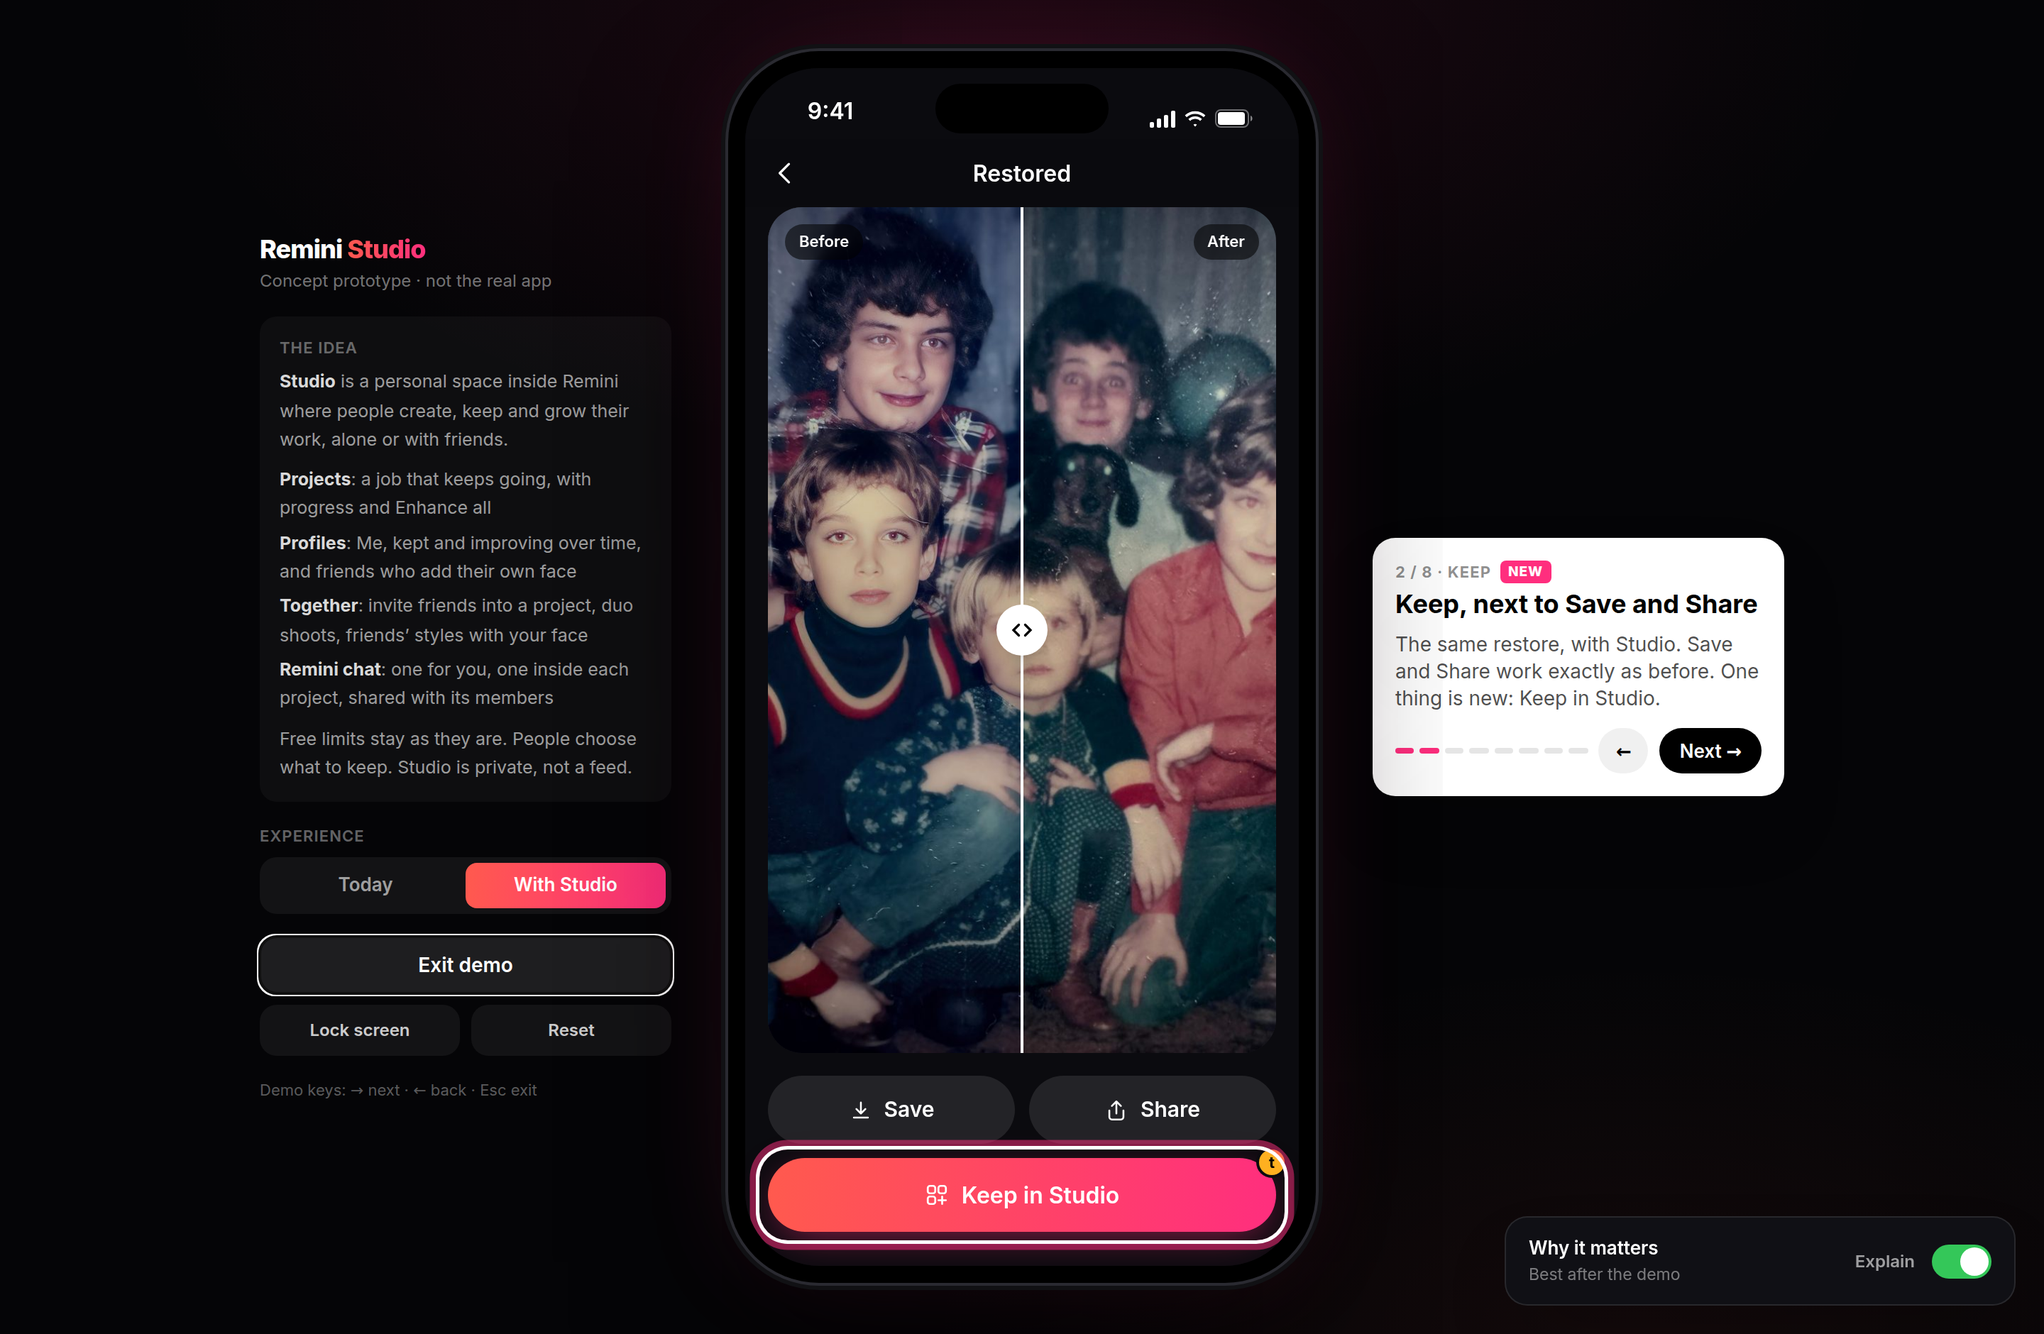
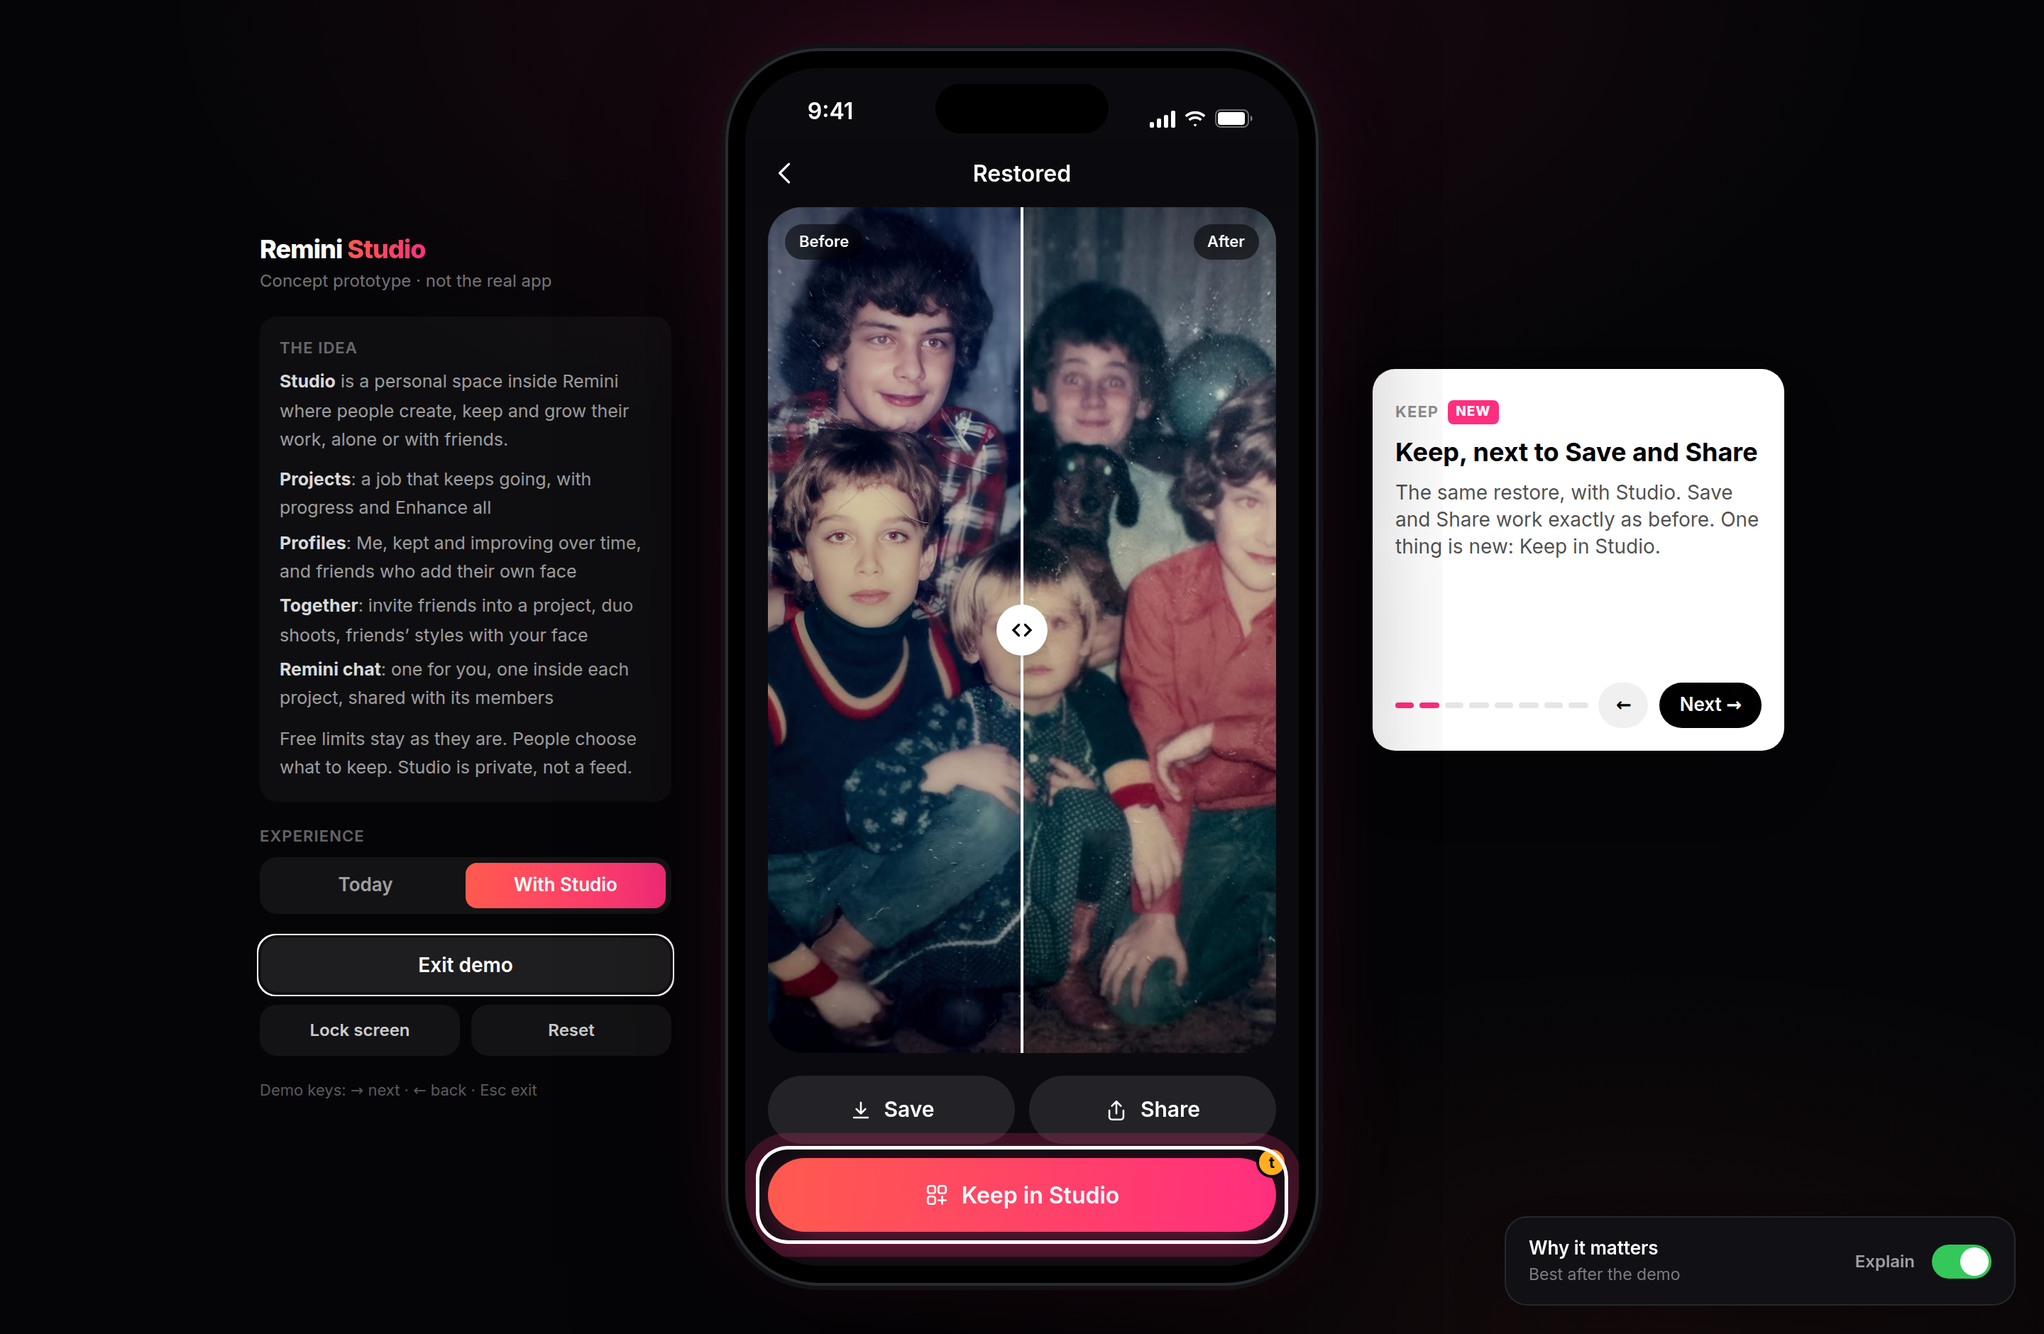
Remove chapter cards; pillar titles in the demo caption; steady caption position
- Reverted the chapter cards and the transition changes that came with them
- Projects, Profiles and Together show a large coloured section title in the caption
- The caption is pinned from the top with a fixed header and text height, so Next never moves

Claude-Session: https://claude.ai/code/session_016rhZVuvannS9NXSxxpYwsv

diff --git a/src/shell/Shell.tsx b/src/shell/Shell.tsx
@@ -206,34 +206,29 @@ export function EventLog() {
   );
 }
 
-/** Next: first dismisses a chapter card, then moves to the next beat. */
-function useAdvance() {
-  const { demo, setDemo, chapterCard, setChapterCard } = useStore();
-  return () => {
-    if (demo === null) return;
-    if (chapterCard !== null) return setChapterCard(null);
-    setDemo(demo >= BEATS.length - 1 ? null : demo + 1);
-  };
-}
-
 export function DemoCaption({ compact = false }: { compact?: boolean }) {
-  const { demo, setDemo, chapterCard } = useStore();
-  const advance = useAdvance();
+  const { demo, setDemo } = useStore();
   if (demo === null) return null;
   const b = BEATS[demo];
-  const last = demo === BEATS.length - 1 && chapterCard === null;
-  const onCard = chapterCard !== null;
-  const ch = CHAPTERS[b.step - 1];
+  const last = demo === BEATS.length - 1;
   return (
-    <motion.div key={`${demo}-${onCard}`} initial={{ opacity: 0, y: 8 }} animate={{ opacity: 1, y: 0 }} className={`rounded-2xl bg-white text-black shadow-2xl ${compact ? 'p-3' : 'p-4'}`}>
-      <div className="flex items-center justify-between text-[11px] font-bold uppercase tracking-wider text-black/45">
-        <span className="flex items-center gap-1.5">
-          {b.step} / {TOTAL_STEPS} · {CHAPTERS[b.step - 1].name}
-          {CHAPTERS[b.step - 1].isNew && <span className="rounded bg-[#FF2E7E] px-1.5 py-[1px] text-[9.5px] font-extrabold tracking-wider text-white">NEW</span>}
-        </span>
-      </div>
-      <div data-ctl={compact ? undefined : 'demo-title'} className={`mt-1 font-bold leading-tight ${compact ? 'text-[15px]' : 'text-[18px]'}`}>{onCard ? ch.name : b.title}</div>
-      {!compact && <p className="mt-1.5 text-[14px] leading-snug text-black/70">{onCard ? ch.tagline : b.caption}</p>}
+    <motion.div key={demo} initial={{ opacity: 0.6 }} animate={{ opacity: 1 }} transition={{ duration: 0.2 }} className={`rounded-2xl bg-white text-black shadow-2xl ${compact ? 'p-3' : 'p-4'}`}>
+      {CHAPTERS[b.step - 1].card ? (
+        // Projects, Profiles and Together: the three pillars get a big, coloured section title.
+        <div className="flex h-[28px] items-center gap-2">
+          <span className="bg-gradient-to-r from-[#FF5A4E] to-[#FF2E7E] bg-clip-text text-[26px] font-extrabold leading-none tracking-tight text-transparent">{CHAPTERS[b.step - 1].name}</span>
+          <span className="rounded bg-[#FF2E7E] px-1.5 py-[1px] text-[9.5px] font-extrabold tracking-wider text-white">NEW</span>
+        </div>
+      ) : (
+        <div className="flex h-[28px] items-center justify-between text-[11px] font-bold uppercase tracking-wider text-black/45">
+          <span className="flex items-center gap-1.5">
+            {CHAPTERS[b.step - 1].name}
+            {CHAPTERS[b.step - 1].isNew && <span className="rounded bg-[#FF2E7E] px-1.5 py-[1px] text-[9.5px] font-extrabold tracking-wider text-white">NEW</span>}
+          </span>
+        </div>
+      )}
+      <div data-ctl={compact ? undefined : 'demo-title'} className={`mt-1 font-bold leading-tight ${compact ? 'text-[15px]' : 'text-[18px]'}`}>{b.title}</div>
+      {!compact && <p className="mt-1.5 min-h-[132px] text-[14px] leading-snug text-black/70">{b.caption}</p>}
       <div className="mt-3 flex items-center gap-2">
         <div className="flex flex-1 gap-1">
           {Array.from({ length: TOTAL_STEPS }, (_, i) => (
@@ -243,8 +238,8 @@ export function DemoCaption({ compact = false }: { compact?: boolean }) {
         <button disabled={demo === 0} onClick={() => setDemo(demo - 1)} className="h-8 rounded-full bg-black/[0.06] px-3 text-[13px] font-semibold disabled:opacity-30">
           ←
         </button>
-        <button data-ctl={compact ? undefined : 'demo-next'} onClick={advance} className="h-8 rounded-full bg-black px-3.5 text-[13px] font-semibold text-white">
-          {last ? 'Finish' : onCard ? 'Start →' : 'Next →'}
+        <button data-ctl={compact ? undefined : 'demo-next'} onClick={() => setDemo(last ? null : demo + 1)} className="h-8 rounded-full bg-black px-3.5 text-[13px] font-semibold text-white">
+          {last ? 'Finish' : 'Next →'}
         </button>
       </div>
     </motion.div>
@@ -253,16 +248,10 @@ export function DemoCaption({ compact = false }: { compact?: boolean }) {
 
 function useDemoDriver() {
   const s = useStore();
-  const { demo, setDemo, setLastDemoDone, setOnboarded, setClosing, setChapterCard } = s;
+  const { demo, setDemo, setLastDemoDone, setOnboarded, setClosing } = s;
   const prev = useRef<number | null>(null);
-  const advance = useAdvance();
 
   useEffect(() => {
-    const was = prev.current;
-    // Moving forward into a new chapter shows its card first; going back never does.
-    if (demo === null) setChapterCard(null);
-    else if ((was === null || (demo > was && BEATS[was]?.step !== BEATS[demo].step)) && CHAPTERS[BEATS[demo].step - 1].card) setChapterCard(BEATS[demo].step);
-    else setChapterCard(null);
     if (demo === null && prev.current === BEATS.length - 1) {
       setLastDemoDone(true);
       afterDemo(s);
@@ -283,13 +272,13 @@ function useDemoDriver() {
     const onKey = (e: KeyboardEvent) => {
       if ((e.target as HTMLElement)?.tagName === 'INPUT') return;
       if (demo === null) return;
-      if (e.key === 'ArrowRight') advance();
+      if (e.key === 'ArrowRight') setDemo(demo >= BEATS.length - 1 ? null : demo + 1);
       else if (e.key === 'ArrowLeft') setDemo(Math.max(0, demo - 1));
       else if (e.key === 'Escape') setDemo(null);
     };
     window.addEventListener('keydown', onKey);
     return () => window.removeEventListener('keydown', onKey);
-  }, [advance, demo, setDemo]);
+  }, [demo, setDemo]);
 }
 
 const fmtM = (x: number) => `${x < 0 ? '−' : ''}$${Math.abs(x) < 1e5 ? `${Math.round(Math.abs(x) / 1e3)}k` : `${Math.abs(x / 1e6).toFixed(1)}M`}`;

diff --git a/src/components/Overlays.tsx b/src/components/Overlays.tsx
@@ -99,25 +99,22 @@ export function Toast() {
   );
 }
 
-/**
- * Pulsing ring around the element marked `data-demo=<target>`, used by the guided demo.
- * It waits for the screen to settle (layers fading in, sheets sliding up) before it
- * appears, then only follows real movement, so it never flies across the phone.
- */
+/** Pulsing ring around the element marked `data-demo=<target>`, used by the guided demo. */
 export function Spotlight({ target, root }: { target: string | null; root: RefObject<HTMLDivElement> }) {
   const [rect, setRect] = useState<{ x: number; y: number; w: number; h: number } | null>(null);
 
   useLayoutEffect(() => {
-    setRect(null);
-    if (!target) return;
+    if (!target) {
+      setRect(null);
+      return;
+    }
     let scrolled = false;
-    let last: { x: number; y: number; w: number; h: number } | null = null;
     const measure = () => {
       const r = root.current;
       // Only elements on the visible screen (hidden stack layers keep theirs mounted).
       const all = Array.from(r?.querySelectorAll<HTMLElement>(`[data-demo="${target}"]`) ?? []).filter((e) => e.getClientRects().length > 0);
       const el = all.length ? all[all.length - 1] : null;
-      if (!r || !el) return;
+      if (!r || !el) return setRect(null);
       if (!scrolled) {
         scrolled = true;
         // Scroll only the app's own scroll containers, never the phone frame.
@@ -131,42 +128,26 @@ export function Spotlight({ target, root }: { target: string | null; root: RefOb
           const d = el.getBoundingClientRect().left - h.getBoundingClientRect().left;
           if (d < 0 || d + el.offsetWidth > h.clientWidth) h.scrollLeft += d - 16;
         }
-        return; // measure after the scroll has applied
       }
       const a = r.getBoundingClientRect();
       const b = el.getBoundingClientRect();
       const scale = a.width / r.offsetWidth || 1;
-      const next = { x: (b.left - a.left) / scale, y: (b.top - a.top) / scale, w: b.width / scale, h: b.height / scale };
-      if (last && Math.abs(last.x - next.x) < 2 && Math.abs(last.y - next.y) < 2 && Math.abs(last.w - next.w) < 2 && Math.abs(last.h - next.h) < 2) return;
-      last = next;
-      setRect(next);
+      setRect({ x: (b.left - a.left) / scale, y: (b.top - a.top) / scale, w: b.width / scale, h: b.height / scale });
     };
-    // Scroll to the element right away, while the screen is still fading in; show the ring once it has settled.
-    const early = [0, 60, 160].map((ms) => window.setTimeout(() => !scrolled && measure(), ms));
-    let t = 0;
-    const start = window.setTimeout(() => {
-      measure();
-      measure();
-      t = window.setInterval(measure, 200);
-    }, 520);
-    return () => {
-      early.forEach(clearTimeout);
-      clearTimeout(start);
-      clearInterval(t);
-    };
+    measure();
+    const t = window.setInterval(measure, 150);
+    return () => clearInterval(t);
   }, [target, root]);
 
   return (
     <AnimatePresence>
-      {rect && target && (
+      {rect && (
         <motion.div
-          key={target}
           className="pointer-events-none absolute z-[80] rounded-[20px]"
-          style={{ left: rect.x - 6, top: rect.y - 6, width: rect.w + 12, height: rect.h + 12 }}
           initial={{ opacity: 0 }}
-          animate={{ opacity: 1 }}
-          exit={{ opacity: 0, transition: { duration: 0 } }}
-          transition={{ duration: 0.25 }}
+          animate={{ opacity: 1, left: rect.x - 6, top: rect.y - 6, width: rect.w + 12, height: rect.h + 12 }}
+          exit={{ opacity: 0 }}
+          transition={{ type: 'spring', stiffness: 300, damping: 30 }}
         >
           <div className="spot-ring absolute inset-0 rounded-[20px]" />
         </motion.div>

diff --git a/src/App.tsx b/src/App.tsx
@@ -4,7 +4,7 @@ import { StatusBar, TopBar } from './components/Chrome';
 import { ChatBubble, TodayHome, TodayScreen, ToolBar } from './screens/Today';
 import { FirstCreationScreen } from './screens/First';
 import { GeneratingOverlay, Spotlight, Toast } from './components/Overlays';
-import { BEATS, CHAPTERS } from './state/demo';
+import { BEATS } from './state/demo';
 import { useStore } from './state/store';
 import type { Route } from './state/types';
 import { AboutScreen, AnimateScreen, GridScreen, PickerScreen, ResultScreen, Splash, TrendScreen } from './screens/Flows';
@@ -136,46 +136,8 @@ function PhoneContent() {
   );
 }
 
-const PILLARS = CHAPTERS.filter((c) => c.card);
-
-/** A full-screen card on the phone when the demo reaches one of Studio's three pillars. It stays until Next, → or a tap. */
-function ChapterCard() {
-  const { chapterCard: show, setChapterCard } = useStore();
-  const ch = show ? CHAPTERS[show - 1] : null;
-  return (
-    <AnimatePresence>
-      {ch && (
-        <motion.button
-          key={show}
-          data-ctl="chapter-card"
-          onClick={() => setChapterCard(null)}
-          className="absolute inset-0 z-[95] flex flex-col justify-end overflow-hidden bg-ink px-7 pb-20 text-left"
-          initial={{ opacity: 0 }}
-          animate={{ opacity: 1 }}
-          exit={{ opacity: 0 }}
-          transition={{ duration: 0.35, ease: 'easeOut' }}
-        >
-          <div className="absolute -right-24 -top-24 h-[380px] w-[380px] rounded-full bg-[radial-gradient(closest-side,rgba(255,46,126,0.45),transparent)]" />
-          <div className="relative w-full">
-            <span className="rounded-md bg-brand px-2 py-[2px] text-[11px] font-extrabold tracking-wider">NEW WITH STUDIO</span>
-            <div className="mt-3 text-[48px] font-extrabold leading-[1.02] tracking-tight">{ch.name}</div>
-            <div className="mt-2 text-[17px] leading-snug text-white/65">{ch.tagline}</div>
-            <div className="mt-8 flex gap-4 text-[13px] font-semibold">
-              {PILLARS.map((p) => (
-                <span key={p.name} className={p.name === ch.name ? 'text-white' : 'text-white/30'}>
-                  {p.name}
-                </span>
-              ))}
-            </div>
-          </div>
-        </motion.button>
-      )}
-    </AnimatePresence>
-  );
-}
-
 export function Phone() {
-  const { demo, chapterCard } = useStore();
+  const { demo } = useStore();
   const root = useRef<HTMLDivElement>(null);
   const [scale, setScale] = useState(1);
 
@@ -186,8 +148,7 @@ export function Phone() {
     return () => window.removeEventListener('resize', fit);
   }, []);
 
-  // No highlight while a chapter card covers the screen.
-  const target = demo !== null && chapterCard === null ? BEATS[demo]?.target ?? null : null;
+  const target = demo !== null ? BEATS[demo]?.target ?? null : null;
 
   return (
     <div className="phone-slot" style={{ ['--s' as string]: scale }}>
@@ -196,7 +157,6 @@ export function Phone() {
           <PhoneContent />
           <div className="dynamic-island" />
           <Spotlight target={target} root={root} />
-          <ChapterCard />
         </div>
       </div>
     </div>

diff --git a/src/state/store.tsx b/src/state/store.tsx
@@ -52,8 +52,6 @@ function useStoreValue() {
   const [chatTyping, setChatTyping] = useState<string | null>(null);
   const [lastDemoDone, setLastDemoDone] = useState(false);
   const [closing, setClosing] = useState(false);
-  /** The chapter card shown when the demo enters a new section; dismissed by Next, → or a tap. */
-  const [chapterCard, setChapterCard] = useState<number | null>(null);
   const [freeUsed, setFreeUsed, freeUsedRef] = useSyncState(0);
   const [isPro, setIsPro, isProRef] = useSyncState(false);
   const [demo, setDemo] = useState<number | null>(null);
@@ -556,7 +554,7 @@ function useStoreValue() {
     sheet, openSheet, closeSheet, generating, runGenerating, toast, showToast, clearToast: useCallback(() => setToast(null), []),
     showLevers, setShowLevers, events, track, clearEvents: useCallback(() => setEvents([]), []),
     identities, identitiesRef, creations, creationsRef, paolaJoined, styleShared, newLooks, returning, cancelled, returningFree, startReturningFree, kept, keptRef, keepLoose, startFamily, addRestOfFamily, studioSeen, setStudioSeen, keepPastWork, addToTrip, addRestOfTrip, segment, onboarded, setOnboarded,
-    freeUsed, isPro, processing, demo, setDemo, splash, setSplash, lastDemoDone, setLastDemoDone, closing, setClosing, chapterCard, setChapterCard, chatTyping,
+    freeUsed, isPro, processing, demo, setDemo, splash, setSplash, lastDemoDone, setLastDemoDone, closing, setClosing, chatTyping,
     setStage, answerSegment, spendFree, startTrip, keepLook, keepSet, keepRestore, keepInProject, processPhotos, enhanceAll, startTrial, finishAfterTrial, cancelPro,
     inviteFriends, friendJoins, shareStyle, withMe, saveMe, applyFriendStyle, makeDuo, improveMe, removeProfile, tryNewLooks, continueCreation, createFromIntent,
     sendChat, keepFromChat, chatCtx, updateCreation, upsertCreation, setFlags, resetAll, clearTimers, friend: FRIEND,

diff --git a/src/state/demo.ts b/src/state/demo.ts
@@ -19,8 +19,7 @@ function scene(s: Store, mode: Mode, stage: Stage, routes: Route[] = []) {
   s.setStage(stage);
   if (s.mode !== mode) s.setMode(mode);
   s.goTab(mode === 'studio' ? 'studio' : 'enhance');
-  // Demo jumps fade in rather than slide, so nothing flies across the screen.
-  s.resetStack(routes, -1);
+  s.resetStack(routes);
 }
 
 const first: Route = { name: 'result', kind: 'enhance', title: 'Restored', image: A.restored(3), before: A.old(3) };
@@ -32,7 +31,7 @@ const remix: Route = { name: 'result', kind: 'remix', image: A.remix90s, title: 
 const duo: Route = { name: 'result', kind: 'together', image: A.together90s, title: `You & ${FRIEND}`, projectId: 'eighties' };
 
 /** The chapters follow the idea: what's new, then Projects, Profiles, Together and Remini chat. */
-/** Only the three pillars (card: true) get a chapter card on the phone. */
+/** The three pillars (card: true) get a bigger, coloured title in the demo caption. */
 export const CHAPTERS: { name: string; tagline: string; isNew?: boolean; card?: boolean }[] = [
   { name: 'Remini today', tagline: 'Great results, one photo at a time' },
   { name: 'Keep', tagline: 'One new button', isNew: true },
@@ -106,8 +105,8 @@ export const BEATS: Beat[] = [
   },
   {
     step: 4,
-    title: 'The free limit, inside the project',
-    caption: 'Free limits stay the same. They just land on something you care about: 5 of 12 restored. Pro finishes the archive, and adds Together.',
+    title: 'Free limit, in the project',
+    caption: 'Free limits stay the same. They land on something you care about: 5 of 12 restored. Pro finishes it and adds Together.',
     target: 'paywall-unfinished',
     enter: (s) => {
       scene(s, 'studio', STAGE.LIMIT, family);

diff --git a/src/index.css b/src/index.css
@@ -97,7 +97,9 @@ button {
   max-height: calc(100vh - 32px);
 }
 .side-right {
-  justify-content: center;
+  /* Pinned from the top so the caption and its buttons don't move between beats. */
+  justify-content: flex-start;
+  padding-top: 26vh;
 }
 .side-right > :last-child:not(:first-child) {
   max-height: 55vh;

diff --git a/README.md b/README.md
@@ -46,7 +46,7 @@ The photos live in `public/assets/` (web-sized JPGs); the full-size originals ar
 
 ### Guided demo path
 
-Eight chapters, 21 beats. Each new chapter opens with a full-screen chapter card on the phone. The chapters follow the idea (Projects, Profiles, Together, Remini chat), and the ones Studio adds are marked NEW in the caption:
+Eight chapters, 21 beats. The chapters follow the idea (Projects, Profiles, Together, Remini chat), and the ones Studio adds are marked NEW in the caption:
 
 1. **Remini today**: the home, and an old family photo restored and saved.
 2. **Keep** (new): the same restore with Studio. Save and Share as before, plus Keep in Studio.
